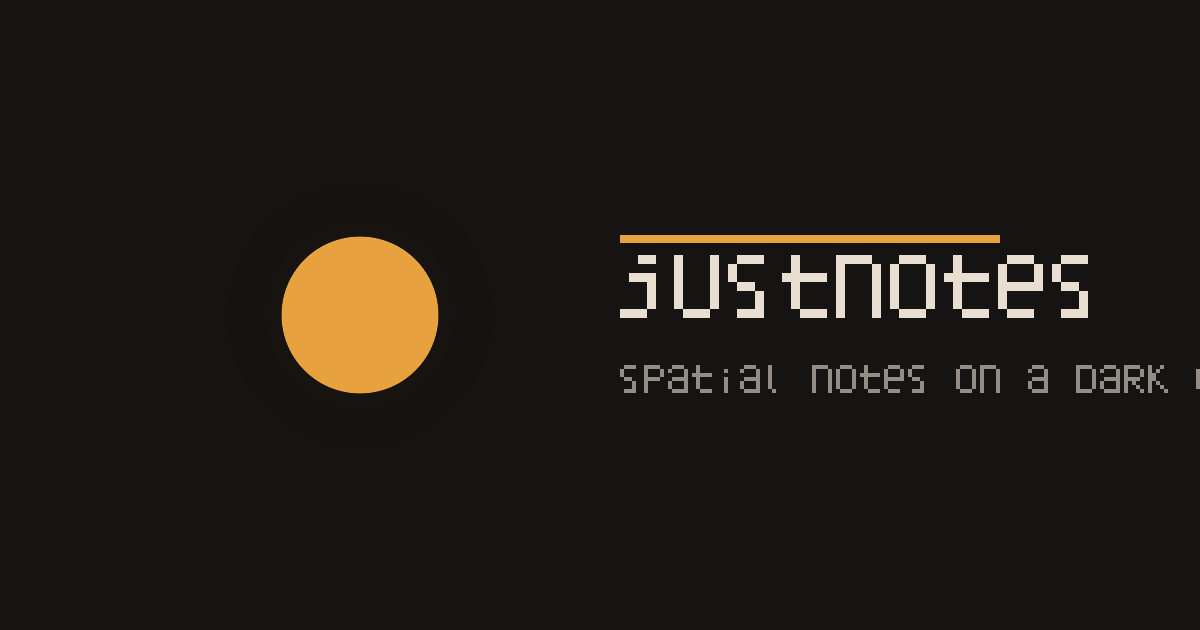
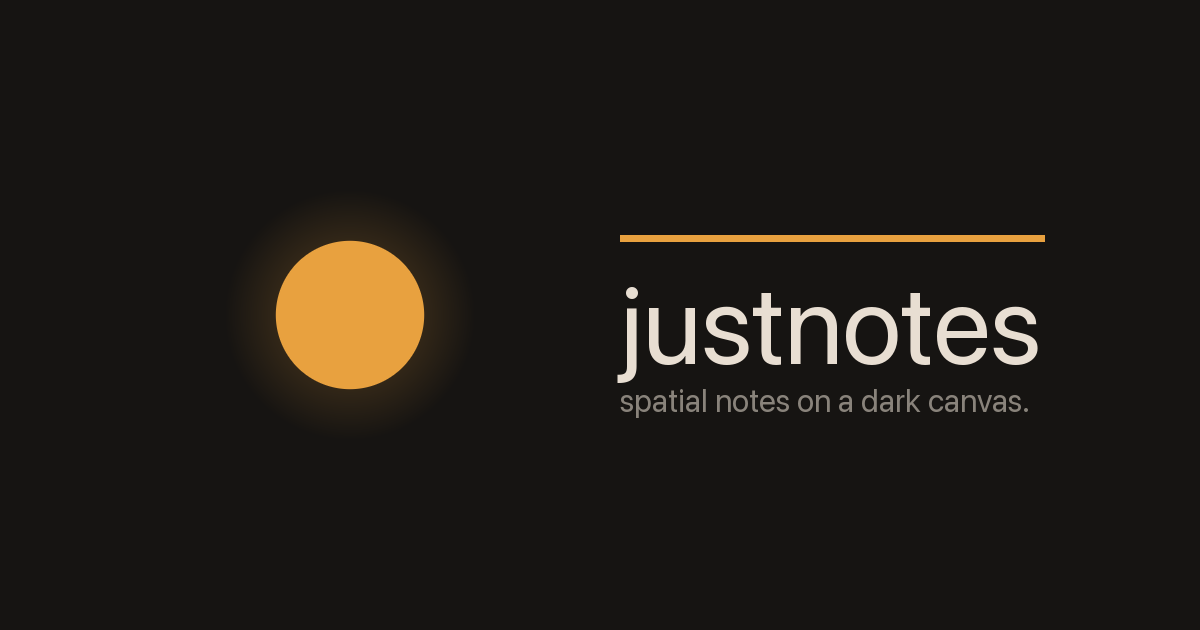
chore(brand): OG renderer uses Pillow + SF for proper type
The bitmap-font OG card read as 8-bit pixel art — wrong tone for a
sans-serif design system. Pillow + the first available system TTF (SF
on macOS, falling back to Helvetica/Arial) gives us properly kerned
"justnotes" + tagline.

build.py
- New find_font() walks FONT_CANDIDATES so the script keeps working on
  Linux/Windows-only environments via env-supplied fallbacks later.
- render_og() now composites the radial-halo mark as a PIL image and
  uses ImageDraw.text() for the wordmark + tagline.
- Pillow is optional — script falls back to a flat dark canvas (and
  prints a hint) if it's missing.
- Hand-rolled 5×7 bitmap font + draw_text/draw_bar helpers deleted.

Outputs regenerated for both apps.

Changed region(s): [[0.4933, 0.3619, 1.0, 0.6635], [0.2158, 0.3619, 0.37, 0.6333]]

diff --git a/brand/build.py b/brand/build.py
@@ -204,100 +204,97 @@ def main():
 
 
 # ─────────────────────────────────────────────────────────────────────
-# OG composer. PIL is overkill for this — we composite the mark + draw
-# a few characters of the wordmark with primitive shapes. The result is
-# enough for a 1200×630 social card; replace with a proper SVG-rendered
-# version when the brand direction is final.
+# OG composer. Pillow + a system TTF give us proper kerned text;
+# without that the wordmark looks like 8-bit-era pixel art and that
+# undermines the whole brand. SF (San Francisco) is the cleanest sans
+# always present on macOS; Helvetica is the fallback. Both are close
+# enough to Geist (geometric humanist sans) that the card stays on-
+# brand.
 # ─────────────────────────────────────────────────────────────────────
 
 OG_W, OG_H = 1200, 630
 
+# Candidate TTF/TTC paths in priority order. macOS only — Linux/Windows
+# would need their own list (or just bring-your-own via env var).
+FONT_CANDIDATES = [
+    "/System/Library/Fonts/SFNS.ttf",
+    "/System/Library/Fonts/SFCompact.ttf",
+    "/System/Library/Fonts/HelveticaNeue.ttc",
+    "/System/Library/Fonts/Helvetica.ttc",
+    "/Library/Fonts/Arial.ttf",
+]
+
+
+def find_font():
+    for p in FONT_CANDIDATES:
+        if os.path.exists(p):
+            return p
+    return None
+
 
 def render_og():
-    rows = [[(*BG, 255) for _ in range(OG_W)] for _ in range(OG_H)]
+    try:
+        from PIL import Image, ImageDraw, ImageFont
+    except ImportError:
+        print("  ! Pillow not installed; OG image will be skipped. Run `pip3 install Pillow`.")
+        # Return a flat dark canvas so the build still produces a file.
+        return [[(*BG, 255) for _ in range(OG_W)] for _ in range(OG_H)]
 
-    # Left half: mark
-    mark_size = 360
-    mark = render_mark(mark_size, transparent_bg=True)
-    mx = 180
-    my = (OG_H - mark_size) // 2
-    for j, mrow in enumerate(mark):
-        for i, (r, g, b, a) in enumerate(mrow):
-            if a == 0:
-                continue
-            base = rows[my + j][mx + i]
-            br, bg, bb, _ = base
-            alpha = a / 255.0
-            rows[my + j][mx + i] = (
-                int(br * (1 - alpha) + r * alpha),
-                int(bg * (1 - alpha) + g * alpha),
-                int(bb * (1 - alpha) + b * alpha),
-                255,
-            )
+    font_path = find_font()
+    if not font_path:
+        print("  ! no system TTF found; skipping OG text")
+        return [[(*BG, 255) for _ in range(OG_W)] for _ in range(OG_H)]
 
-    # Right half: word + tagline as colored bars (placeholder for proper
-    # type rendering). The intent is "you'll see this is the justnotes
-    # social card" — refinement requires a font renderer.
-    x0 = 620
-    y0 = 235
-    draw_bar(rows, x0, y0, 380, 8, ACCENT)            # accent underline
-    draw_text(rows, x0, y0 + 20, "justnotes", 64, TEXT)
-    draw_text(rows, x0, y0 + 130, "spatial notes on a dark canvas.", 28, blend(TEXT, BG, 0.4))
-    return rows
+    img = Image.new("RGBA", (OG_W, OG_H), (*BG, 255))
 
+    # Mark on the left — composited from our radial-gradient renderer
+    # so the halo blends correctly against the OG bg.
+    mark_size = 340
+    mark_rows = render_mark(mark_size, transparent_bg=False)
+    mark_img = Image.new("RGBA", (mark_size, mark_size))
+    mark_img.putdata(
+        [tuple(px) for row in mark_rows for px in row]
+    )
+    mark_x = 180
+    mark_y = (OG_H - mark_size) // 2
+    img.paste(mark_img, (mark_x, mark_y), mark_img)
 
-def draw_bar(rows, x, y, w, h, color):
-    for yy in range(y, y + h):
-        for xx in range(x, x + w):
-            if 0 <= yy < OG_H and 0 <= xx < OG_W:
-                rows[yy][xx] = (*color, 255)
+    draw = ImageDraw.Draw(img)
+
+    # Right side: wordmark + tagline. Sized so the tagline fits the
+    # 1200px width with comfortable right padding (~80px).
+    text_x = 620
+    word = ImageFont.truetype(font_path, 110)
+    tagline = ImageFont.truetype(font_path, 32)
+
+    # Accent underline above the wordmark — same width as "justnotes"
+    # so it reads as part of the same composition.
+    word_bbox = draw.textbbox((text_x, 0), "justnotes", font=word)
+    word_w = word_bbox[2] - word_bbox[0]
+    underline_y = 235
+    draw.rectangle(
+        (text_x, underline_y, text_x + min(word_w, 460), underline_y + 6),
+        fill=(*ACCENT, 255),
+    )
+
+    draw.text((text_x, underline_y + 22), "justnotes", font=word, fill=(*TEXT, 255))
+
+    # Muted tagline
+    tagline_color = (*blend(TEXT, BG, 0.45), 255)
+    draw.text(
+        (text_x, underline_y + 22 + word.size + 14),
+        "spatial notes on a dark canvas.",
+        font=tagline,
+        fill=tagline_color,
+    )
+
+    # Pillow → row-of-rows for the write_png path
+    pixels = list(img.getdata())
+    return [pixels[y * OG_W : (y + 1) * OG_W] for y in range(OG_H)]
 
 
 def blend(c1, c2, t):
     return tuple(int(c1[i] * (1 - t) + c2[i] * t) for i in range(3))
-
-
-# Minimal 5×7 bitmap font for the letters we actually use. Caller scales.
-GLYPHS = {
-    " ": [],
-    "j": ["..xx.", "....", ".xxx.", "...x.", "...x.", "...x.", "xxx.."],
-    "u": ["x...x", "x...x", "x...x", "x...x", "x...x", "x...x", ".xxx."],
-    "s": [".xxx.", "x....", "x....", ".xx..", "...x.", "...x.", ".xxx."],
-    "t": [".x...", ".x...", "xxxxx", ".x...", ".x...", ".x...", "..xxx"],
-    "n": ["xxxx.", "x...x", "x...x", "x...x", "x...x", "x...x", "x...x"],
-    "o": [".xxx.", "x...x", "x...x", "x...x", "x...x", "x...x", ".xxx."],
-    "e": [".xxx.", "x...x", "x...x", "xxxxx", "x....", "x....", ".xxx."],
-    "p": ["xxxx.", "x...x", "x...x", "xxxx.", "x....", "x....", "x...."],
-    "a": [".xxx.", "x...x", "....x", ".xxxx", "x...x", "x...x", ".xxxx"],
-    "i": [".....", "..x..", ".....", "..x..", "..x..", "..x..", "..x.."],
-    "l": [".x...", ".x...", ".x...", ".x...", ".x...", ".x...", "..x.."],
-    "r": ["xxxx.", "x...x", "x...x", "xxxx.", "x.x..", "x..x.", "x...x"],
-    "c": [".xxx.", "x...x", "x....", "x....", "x....", "x...x", ".xxx."],
-    "d": ["xxxx.", "x...x", "x...x", "x...x", "x...x", "x...x", "xxxx."],
-    "v": ["x...x", "x...x", "x...x", "x...x", "x...x", ".x.x.", "..x.."],
-    "k": ["x..x.", "x.x..", "xx...", "xx...", "x.x..", "x..x.", "x...x"],
-    "h": ["x....", "x....", "x....", "xxxx.", "x...x", "x...x", "x...x"],
-    ".": [".....", ".....", ".....", ".....", ".....", "..x..", "..x.."],
-}
-
-
-def draw_text(rows, x, y, text, size, color):
-    # 5×7 glyphs scaled by `size // 7`. Spacing = 1 col.
-    px = max(1, size // 7)
-    cx = x
-    for ch in text:
-        glyph = GLYPHS.get(ch, GLYPHS[" "])
-        for j, line in enumerate(glyph):
-            for i, c in enumerate(line):
-                if c != "x":
-                    continue
-                for dy in range(px):
-                    for dx in range(px):
-                        yy = y + j * px + dy
-                        xx = cx + i * px + dx
-                        if 0 <= yy < OG_H and 0 <= xx < OG_W:
-                            rows[yy][xx] = (*color, 255)
-        cx += 6 * px
 
 
 if __name__ == "__main__":